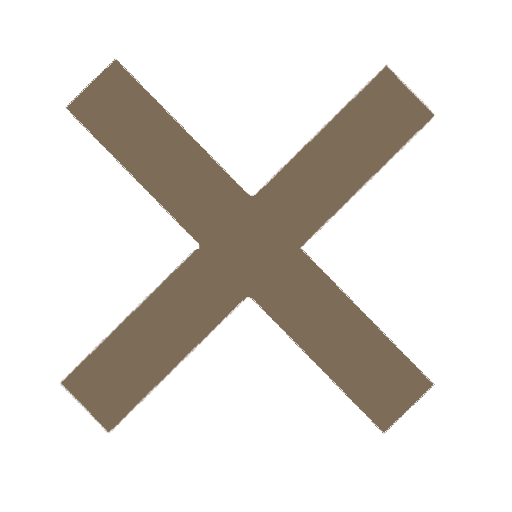
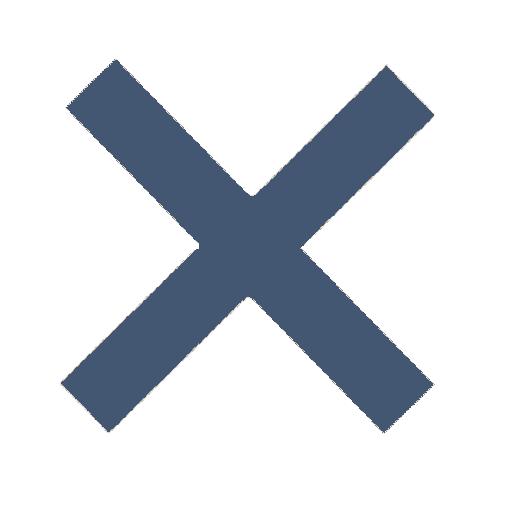
Optimizations and Aesthetics
Made buttons more optimized and changed their look slightly.

Changed region(s): [[0.125, 0.125, 0.8438, 0.8438]]

diff --git a/Trackr/Main.Designer.cs b/Trackr/Main.Designer.cs
@@ -51,16 +51,16 @@
             this.EditorLabel_ProjectSelector = new System.Windows.Forms.Label();
             this.EditorAddProject = new System.Windows.Forms.Button();
             this.EditorProjectSelector = new System.Windows.Forms.ComboBox();
+            this.EditorSplitter2 = new System.Windows.Forms.PictureBox();
             this.EditorHeader_Project = new System.Windows.Forms.Label();
             this.EditorTimeEnd = new System.Windows.Forms.TextBox();
+            this.EditorSplitter = new System.Windows.Forms.PictureBox();
             this.EditorHeader_Time = new System.Windows.Forms.Label();
             this.EditorTimeStart = new System.Windows.Forms.TextBox();
             this.CloseEditor = new System.Windows.Forms.Button();
             this.EditorHeader_ActivityTitle = new System.Windows.Forms.Label();
             this.EditorActivityTitle = new System.Windows.Forms.TextBox();
             this.EditorTitle = new System.Windows.Forms.Label();
-            this.EditorSplitter2 = new System.Windows.Forms.PictureBox();
-            this.EditorSplitter = new System.Windows.Forms.PictureBox();
             this.ProjectColorSideBar = new System.Windows.Forms.PictureBox();
             this.EditorControlBar = new System.Windows.Forms.PictureBox();
             this.Minimize = new System.Windows.Forms.PictureBox();
@@ -326,6 +326,16 @@
             this.EditorProjectSelector.Name = "EditorProjectSelector";
             this.EditorProjectSelector.Size = new System.Drawing.Size(274, 21);
             this.EditorProjectSelector.TabIndex = 20;
+            this.EditorProjectSelector.TextChanged += new System.EventHandler(this.EditorProjectSelector_TextChanged);
+            // 
+            // EditorSplitter2
+            // 
+            this.EditorSplitter2.BackColor = System.Drawing.Color.Silver;
+            this.EditorSplitter2.Location = new System.Drawing.Point(10, 250);
+            this.EditorSplitter2.Name = "EditorSplitter2";
+            this.EditorSplitter2.Size = new System.Drawing.Size(390, 1);
+            this.EditorSplitter2.TabIndex = 19;
+            this.EditorSplitter2.TabStop = false;
             // 
             // EditorHeader_Project
             // 
@@ -351,6 +361,15 @@
             this.EditorTimeEnd.Size = new System.Drawing.Size(85, 25);
             this.EditorTimeEnd.TabIndex = 17;
             this.EditorTimeEnd.Text = "11:59 PM";
+            // 
+            // EditorSplitter
+            // 
+            this.EditorSplitter.BackColor = System.Drawing.Color.Silver;
+            this.EditorSplitter.Location = new System.Drawing.Point(10, 105);
+            this.EditorSplitter.Name = "EditorSplitter";
+            this.EditorSplitter.Size = new System.Drawing.Size(390, 1);
+            this.EditorSplitter.TabIndex = 16;
+            this.EditorSplitter.TabStop = false;
             // 
             // EditorHeader_Time
             // 
@@ -379,15 +398,19 @@
             // 
             // CloseEditor
             // 
-            this.CloseEditor.BackColor = System.Drawing.Color.Cornsilk;
+            this.CloseEditor.BackColor = System.Drawing.Color.FromArgb(((int)(((byte)(20)))), ((int)(((byte)(25)))), ((int)(((byte)(35)))));
+            this.CloseEditor.BackgroundImage = global::Trackr.Properties.Resources.closeeditor;
+            this.CloseEditor.BackgroundImageLayout = System.Windows.Forms.ImageLayout.Zoom;
+            this.CloseEditor.FlatAppearance.BorderSize = 0;
             this.CloseEditor.FlatStyle = System.Windows.Forms.FlatStyle.Flat;
             this.CloseEditor.Location = new System.Drawing.Point(372, 2);
             this.CloseEditor.Name = "CloseEditor";
             this.CloseEditor.Size = new System.Drawing.Size(25, 25);
             this.CloseEditor.TabIndex = 4;
-            this.CloseEditor.Text = "<";
             this.CloseEditor.UseVisualStyleBackColor = false;
             this.CloseEditor.Click += new System.EventHandler(this.CloseEditor_Click);
+            this.CloseEditor.MouseEnter += new System.EventHandler(this.Button_MouseEnter);
+            this.CloseEditor.MouseLeave += new System.EventHandler(this.Button_MouseLeave);
             // 
             // EditorHeader_ActivityTitle
             // 
@@ -426,24 +449,6 @@
             this.EditorTitle.TabIndex = 1;
             this.EditorTitle.Text = "Extended Activity Information";
             // 
-            // EditorSplitter2
-            // 
-            this.EditorSplitter2.BackColor = System.Drawing.Color.Silver;
-            this.EditorSplitter2.Location = new System.Drawing.Point(10, 250);
-            this.EditorSplitter2.Name = "EditorSplitter2";
-            this.EditorSplitter2.Size = new System.Drawing.Size(390, 1);
-            this.EditorSplitter2.TabIndex = 19;
-            this.EditorSplitter2.TabStop = false;
-            // 
-            // EditorSplitter
-            // 
-            this.EditorSplitter.BackColor = System.Drawing.Color.Silver;
-            this.EditorSplitter.Location = new System.Drawing.Point(10, 105);
-            this.EditorSplitter.Name = "EditorSplitter";
-            this.EditorSplitter.Size = new System.Drawing.Size(390, 1);
-            this.EditorSplitter.TabIndex = 16;
-            this.EditorSplitter.TabStop = false;
-            // 
             // ProjectColorSideBar
             // 
             this.ProjectColorSideBar.BackColor = System.Drawing.Color.FromArgb(((int)(((byte)(255)))), ((int)(((byte)(128)))), ((int)(((byte)(0)))));
@@ -473,8 +478,8 @@
             this.Minimize.TabIndex = 5;
             this.Minimize.TabStop = false;
             this.Minimize.Click += new System.EventHandler(this.Minimize_Click);
-            this.Minimize.MouseEnter += new System.EventHandler(this.Minimize_MouseEnter);
-            this.Minimize.MouseLeave += new System.EventHandler(this.Minimize_MouseLeave);
+            this.Minimize.MouseEnter += new System.EventHandler(this.Button_MouseEnter);
+            this.Minimize.MouseLeave += new System.EventHandler(this.Button_MouseLeave);
             // 
             // Maximize
             // 
@@ -487,8 +492,8 @@
             this.Maximize.TabIndex = 4;
             this.Maximize.TabStop = false;
             this.Maximize.Click += new System.EventHandler(this.Maximize_Click);
-            this.Maximize.MouseEnter += new System.EventHandler(this.Maximize_MouseEnter);
-            this.Maximize.MouseLeave += new System.EventHandler(this.Maximize_MouseLeave);
+            this.Maximize.MouseEnter += new System.EventHandler(this.Button_MouseEnter);
+            this.Maximize.MouseLeave += new System.EventHandler(this.Button_MouseLeave);
             // 
             // ClientIcon
             // 

diff --git a/Trackr/Main.cs b/Trackr/Main.cs
@@ -103,7 +103,7 @@ namespace Trackr
 
             if (projects != null)
             {
-                for (int p = 0; p < projects.Count; p++)
+                for (int p = projects.Count - 1; p >= 0; p--)
                 {
                     EditorProjectSelector.Items.Add(projects[p].Item1);
                 }
@@ -120,34 +120,24 @@ namespace Trackr
             }
         }
 
+        private void Button_MouseEnter(object sender, EventArgs e)
+        {
+            (sender as Control).BackColor = Color.FromArgb(30, 35, 45);
+        }
+
+        private void Button_MouseLeave(object sender, EventArgs e)
+        {
+            (sender as Control).BackColor = Color.FromArgb(20, 25, 35);
+        }
+
         private void Minimize_Click(object sender, EventArgs e)
         {
             WindowState = FormWindowState.Minimized;
         }
 
-        private void Minimize_MouseEnter(object sender, EventArgs e)
-        {
-            Minimize.BackColor = Color.FromArgb(30, 35, 45);
-        }
-
-        private void Minimize_MouseLeave(object sender, EventArgs e)
-        {
-            Minimize.BackColor = Color.FromArgb(20, 25, 35);
-        }
-
         private void Maximize_Click(object sender, EventArgs e)
         {
             Close();
-        }
-
-        private void Maximize_MouseEnter(object sender, EventArgs e)
-        {
-            Maximize.BackColor = Color.FromArgb(30, 35, 45);
-        }
-
-        private void Maximize_MouseLeave(object sender, EventArgs e)
-        {
-            Maximize.BackColor = Color.FromArgb(20, 25, 35);
         }
 
         private void ClientControlBar_MouseMove(object sender, MouseEventArgs e)
@@ -237,6 +227,11 @@ namespace Trackr
                                          where a.activityID == int.Parse(EditorActivityID.Text)
                                          select a;
             editorSelectedActivity.ElementAt(0).ActivityName.Text = EditorActivityTitle.Text;
+        }
+
+        private void EditorProjectSelector_TextChanged(object sender, EventArgs e)
+        {
+
         }
 
         private void EditorAddProject_Click(object sender, EventArgs e)

diff --git a/Trackr/Properties/Resources.Designer.cs b/Trackr/Properties/Resources.Designer.cs
@@ -73,6 +73,16 @@ namespace Trackr.Properties {
         /// <summary>
         ///   Looks up a localized resource of type System.Drawing.Bitmap.
         /// </summary>
+        internal static System.Drawing.Bitmap closeeditor {
+            get {
+                object obj = ResourceManager.GetObject("closeeditor", resourceCulture);
+                return ((System.Drawing.Bitmap)(obj));
+            }
+        }
+        
+        /// <summary>
+        ///   Looks up a localized resource of type System.Drawing.Bitmap.
+        /// </summary>
         internal static System.Drawing.Bitmap home {
             get {
                 object obj = ResourceManager.GetObject("home", resourceCulture);
